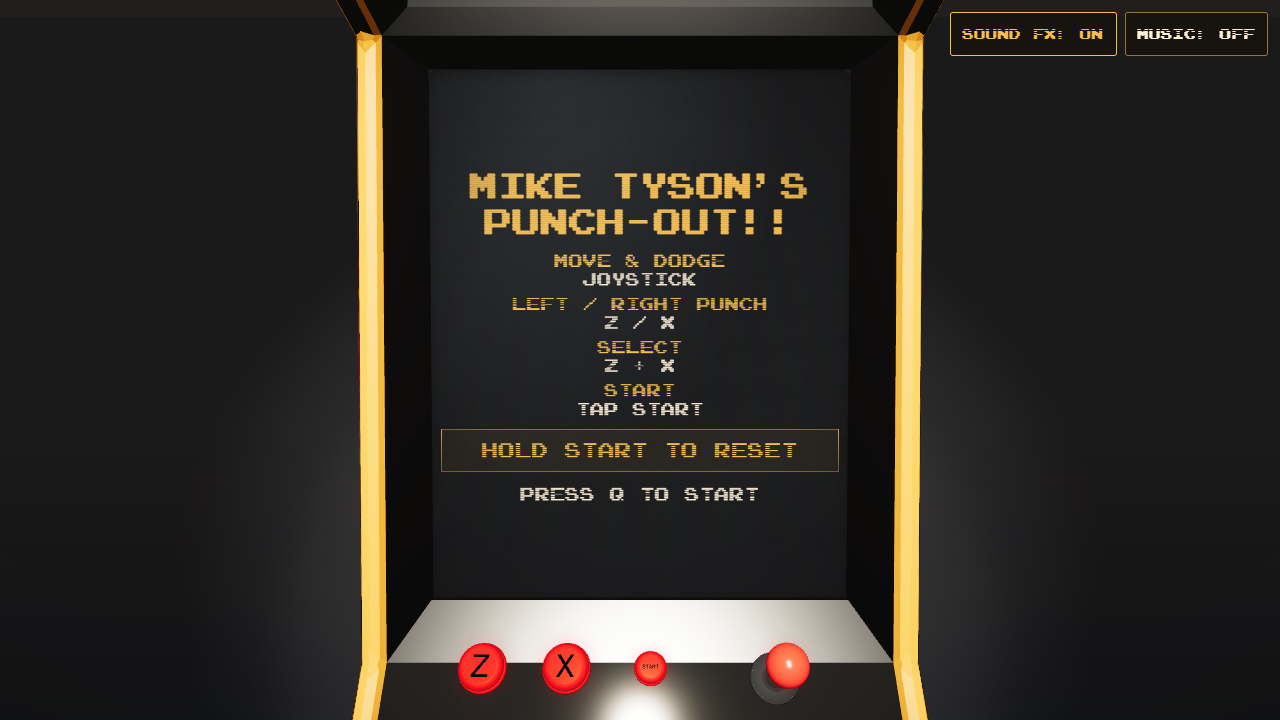
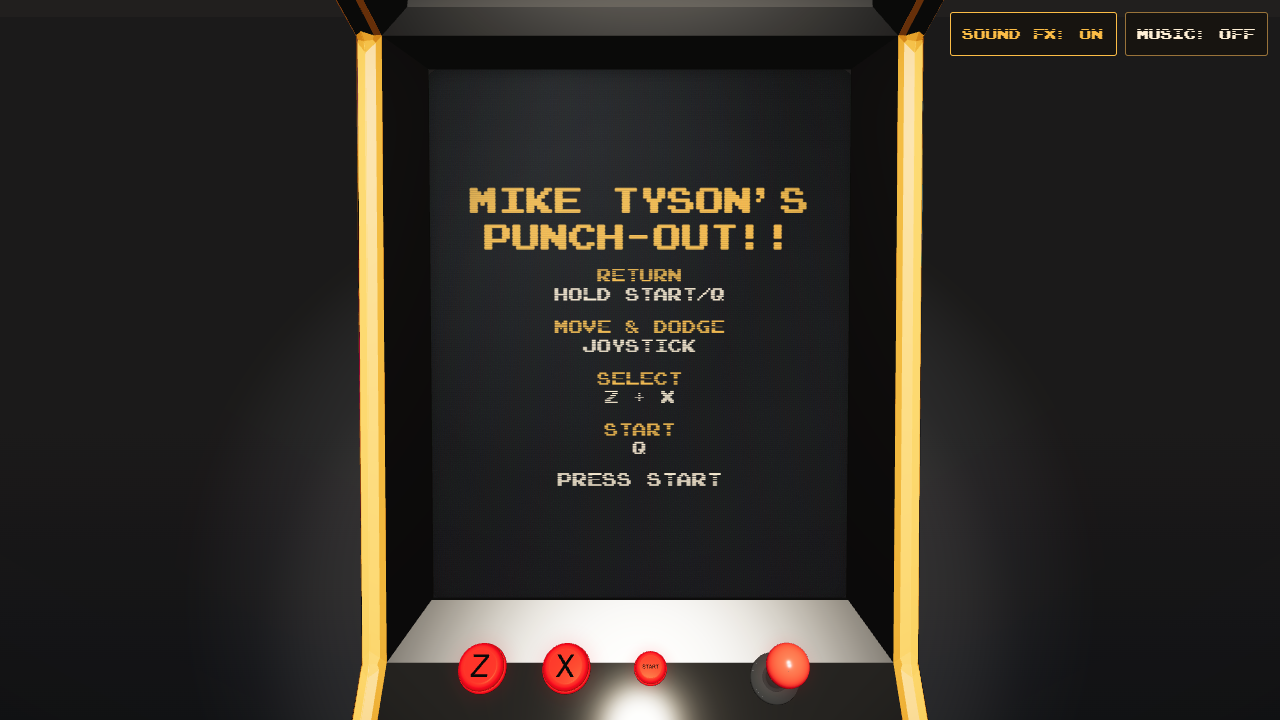
fix: stabilize checks and refine arcade instructions

Changed region(s): [[0.3438, 0.2444, 0.6562, 0.7028]]

diff --git a/tests/cabinet-controls.spec.js b/tests/cabinet-controls.spec.js
@@ -127,24 +127,38 @@ test('cabinet selects menu links, activates with Z, and exits from the blog and 
   await page.keyboard.press('Enter');
   await expect(frame.getByRole('heading', { name: 'Build. Build. Build.', exact: true })).toBeVisible();
   const scrollY = () => frame.locator('body').evaluate(() => window.scrollY);
-  const scroll = await grabJoystick(page, isMobile);
-  await scroll.move(0, 30);
-  // Focus can move between the reader and cabinet while the physical stick stays held.
-  await page.getByRole('button', { name: 'Cabinet: Z Read', exact: true }).focus();
-  await expect.poll(scrollY).toBeGreaterThan(100);
-  await scroll.release();
-  await frame.locator('body').evaluate(() => new Promise(resolve => requestAnimationFrame(() => requestAnimationFrame(resolve))));
-  const stopped = await scrollY();
-  await page.waitForTimeout(100);
-  expect(await scrollY()).toBe(stopped);
-  await page.keyboard.down('ArrowUp');
-  await expect.poll(scrollY).toBeLessThan(stopped - 30);
-  await page.keyboard.up('ArrowUp');
-  await frame.getByRole('heading', { name: 'Build. Build. Build.', exact: true }).focus();
-  const before = await scrollY();
-  await page.keyboard.down('s');
-  await expect.poll(scrollY).toBeGreaterThan(before + 30);
-  await page.keyboard.up('s');
+  for (const shortRange of [false, true]) {
+    // Also exercise the 95-pixel range seen in CI, without requiring impossible scroll distances.
+    const maxScroll = await frame.locator('main').evaluate(async (element, short) => {
+      await document.fonts.ready;
+      element.style.height = short ? `${innerHeight + 95}px` : '';
+      element.style.overflow = short ? 'hidden' : '';
+      window.scrollTo(0, 0);
+      return document.scrollingElement.scrollHeight - innerHeight;
+    }, shortRange);
+    testInfo.annotations.push({ type: 'article-scroll-range', description: `${shortRange ? 'short' : 'natural'}: ${maxScroll}` });
+    expect(maxScroll).toBeGreaterThan(0);
+    const scroll = await grabJoystick(page, isMobile);
+    await scroll.move(0, 30);
+    // Focus can move between the reader and cabinet while the physical stick stays held.
+    await page.getByRole('button', { name: 'Cabinet: Z Read', exact: true }).focus();
+    await expect.poll(scrollY).toBeGreaterThan(Math.min(100, maxScroll / 2));
+    await scroll.release();
+    await frame.locator('body').evaluate(() => new Promise(resolve => requestAnimationFrame(() => requestAnimationFrame(resolve))));
+    const stopped = await scrollY();
+    await page.waitForTimeout(100);
+    expect(await scrollY()).toBe(stopped);
+    await page.keyboard.down('ArrowUp');
+    await expect.poll(scrollY).toBeLessThan(stopped - Math.min(30, stopped / 2));
+    await page.keyboard.up('ArrowUp');
+    await frame.getByRole('heading', { name: 'Build. Build. Build.', exact: true }).focus();
+    const before = await scrollY();
+    const distance = Math.min(30, (maxScroll - before) / 2);
+    expect(distance).toBeGreaterThan(0);
+    await page.keyboard.down('s');
+    await expect.poll(scrollY).toBeGreaterThan(before + distance);
+    await page.keyboard.up('s');
+  }
   await page.getByRole('button', { name: 'Cabinet: X Open', exact: true }).click();
   await expect(article).toBeFocused();
   const parent = await grabJoystick(page, isMobile);

diff --git a/tests/punch-out.spec.js b/tests/punch-out.spec.js
@@ -17,10 +17,12 @@ test('keyboard directions, punches, Start/Select, visibility and cancellation us
   await mockEmulator(page);
   await page.goto(route);
   await expect(page.locator('body')).toHaveAttribute('data-state', 'ready');
-  await expect(page.locator('#instructions')).toContainText('Z + X');
-  await expect(page.locator('#instructions')).toContainText('Tap Start');
-  await expect(page.locator('#instructions')).toContainText('HOLD START TO RESET');
-  await expect(page.locator('#status')).toHaveText('Press Q to start');
+  await expect(page.locator('#instructions dl > div')).toHaveText(['ReturnHold Start/Q', 'Move & dodgeJoystick', 'Selectz + x', 'StartQ']);
+  await expect(page.locator('#status')).toHaveText('Press Start');
+  await expect(page.locator('#status')).toHaveCSS('animation-name', 'press-start-flash');
+  await page.emulateMedia({ reducedMotion: 'reduce' });
+  await expect(page.locator('#status')).toHaveCSS('animation-name', 'none');
+  await page.emulateMedia({ reducedMotion: 'no-preference' });
   await expect(page.locator('#instructions')).not.toContainText(/WASD|Z: B|X: A|Shift|0\.6 sec|Exit/);
   await page.keyboard.press('q');
   await expect.poll(() => events(page)).toContainEqual({ player: 0, button: 3, pressed: 1 });
@@ -97,7 +99,7 @@ test('entry stays in the cabinet, held inputs animate, Start returns to the exhi
   await expect(emulator.locator('.ejs_virtualGamepad_parent')).toBeHidden();
   await expect(emulator.locator('.ejs_menu_bar')).toBeHidden();
   expect(await frame.locator('#instructions').evaluate(element => element.scrollHeight <= element.clientHeight)).toBe(true);
-  await page.screenshot({ path: testInfo.outputPath('punch-out-instructions.png') });
+  await page.screenshot({ path: testInfo.outputPath('punch-out-instructions.png'), animations: 'disabled' });
   const read = page.locator('[data-action="read"]'), open = page.locator('[data-action="open"]'), reset = page.locator('[data-action="menu"]');
   await read.click();
   await expect(frame.locator('#instructions')).toBeHidden();

diff --git a/apps/portfolio/src/punch-out/punch-out.css b/apps/portfolio/src/punch-out/punch-out.css
@@ -22,15 +22,17 @@ body:focus { outline: none; }
   background: #0b0c0f;
 }
 h1 { font-size: clamp(28px, 7vw, 42px); line-height: 1.25; margin: 0; }
-dl { display: grid; gap: 8px; margin: 0; font-size: clamp(16px, 3.4vw, 22px); line-height: 1.3; }
+dl { display: grid; gap: 20px; margin: 0; font-size: clamp(16px, 3.4vw, 22px); line-height: 1.3; }
 dd { margin: 0; color: #fff0d6; }
-#reset-instruction { margin: 0; padding: 14px 10px; border: 1px solid currentColor; background: #fcbd4610; font-size: clamp(22px, 4vw, 28px); line-height: 1.35; }
 #status { margin: 0; font-size: clamp(17px, 3.6vw, 24px); line-height: 1.5; color: #fff0d6; }
+[data-state='ready'] #status { animation: press-start-flash 1.2s steps(1, end) infinite; }
+@keyframes press-start-flash { 50% { opacity: 0; } }
+@media (prefers-reduced-motion: reduce) { [data-state='ready'] #status { animation: none; } }
 [data-state='playing'] #instructions { display: none; }
 [data-state='error'] #viewport { visibility: hidden; }
 @media (max-height: 480px) {
   #instructions { padding: 16px; gap: 12px; }
-  dl { gap: 8px; font-size: clamp(13px, 3vw, 20px); }
+  dl { gap: 14px; font-size: clamp(13px, 3vw, 20px); }
   h1 { font-size: 26px; }
   #status { font-size: 18px; }
 }

diff --git a/apps/portfolio/src/punch-out/punch-out.html b/apps/portfolio/src/punch-out/punch-out.html
@@ -11,12 +11,11 @@
     <section id="instructions" aria-labelledby="game-title">
       <h1 id="game-title">Mike Tyson's<br>Punch-Out!!</h1>
       <dl>
+        <div><dt>Return</dt><dd>Hold Start/Q</dd></div>
         <div><dt>Move &amp; dodge</dt><dd>Joystick</dd></div>
-        <div><dt>Left / right punch</dt><dd>Z / X</dd></div>
-        <div><dt>Select</dt><dd>Z + X</dd></div>
-        <div><dt>Start</dt><dd>Tap Start</dd></div>
+        <div><dt>Select</dt><dd>z + x</dd></div>
+        <div><dt>Start</dt><dd>Q</dd></div>
       </dl>
-      <p id="reset-instruction">HOLD START TO RESET</p>
       <p id="status" role="status" aria-live="polite">Loading the ring...</p>
     </section>
     <script type="module" src="./punch-out.ts"></script>

diff --git a/apps/portfolio/src/punch-out/punch-out.ts b/apps/portfolio/src/punch-out/punch-out.ts
@@ -59,7 +59,7 @@ const start = () => {
     emulator.start(() => {
       if (attempt !== session) return
       clearTimeout(timeout)
-      setState('ready', 'Press Q to start')
+      setState('ready', 'Press Start')
       emulator.pause()
     }, fail)
   }

diff --git a/apps/portfolio/docs/testing.md b/apps/portfolio/docs/testing.md
@@ -50,7 +50,7 @@ The embedded portfolio regression checks the same behavior from inside the arcad
 VM tests do not replace browser rendering or real pointer and touch checks.
 Punch-Out CI substitutes only the official pinned loader with a deterministic emulator adapter; it does not fetch or store a ROM and does not claim live gameplay coverage.
 The fixture implements `gameManager.simulateInput` and polls simultaneous held buttons on running emulated frames, rather than treating canvas keyboard events as NES input.
-Instruction regressions check the simplified cabinet mappings, prominent HOLD START TO RESET reminder, and Press Q to start prompt.
+Instruction regressions check the four cabinet mappings and flashing Press Start prompt, including a steady prompt for reduced motion.
 Run `npm.cmd run test:browser -- tests/punch-out.spec.js --project=production-desktop --project=production-mobile --workers=1` after a root build for focused input checks.
 Separately verify the real external source in a browser: check the direct CORS response and NES header, title screen, starting a bout, movement, both punches, Start/Select, gesture audio, and exit back to the exhibit.
 Capture desktop and mobile instructions and live gameplay, checking the centered viewport, cabinet transitions, readable copy, and absence of emulator touch controls or toolbars.
@@ -72,6 +72,7 @@ Its mobile history regression dispatches persisted pagehide/pageshow events and 
 Its menu regression selects Start, Blog, and Resume with the joystick, opens the PDF in a new tab using Z, enters the game, and returns from both the game and blog with Start.
 It also enters `/tech`, verifies that its first article has focus, and opens it with Enter.
 Article regressions cover continuous physical joystick scrolling, keyboard scrolling from the cabinet and iframe, release behavior, and removal of the underline when the article is no longer selected.
+They cover the natural article height and a constrained 95-pixel scroll range, measuring available distance after fonts are ready instead of requiring a fixed scroll beyond the document boundary.
 They move focus from the embedded reader to a cabinet button while the joystick is held, verifying that internal focus changes do not interrupt scrolling.
 Development fixtures verify all WASD and arrow directions, horizontal code overflow, and stopping on disconnect.
 The cabinet regression checks physical X navigation from a folder and the blog index; development article fixtures check keyboard X through all three levels.

diff --git a/docs/development.md b/docs/development.md
@@ -67,9 +67,10 @@ They run on separate runners in the official `mcr.microsoft.com/playwright:v1.64
 The container uses `--init --ipc=host` for process cleanup and Chromium shared memory.
 Keep the image version aligned with the locked `@playwright/test` version when updating Playwright; a browser configuration guard verifies the match.
 Tests tagged `@webgl` run with one worker per runner so software-rendered scenes do not compete; the remaining portfolio checks retain two workers per runner.
-Both browser groups use Playwright's three-way sharding, with `--fully-parallel` on WebGL to distribute individual cases rather than whole files while `--workers=1` keeps execution serial within each runner.
+Both browser groups use Playwright's six-way sharding, with `--fully-parallel` on WebGL to distribute individual cases rather than whole files while `--workers=1` keeps execution serial within each runner.
+The smaller shards reduce the heavy desktop scene workload assigned to the first runner without adding competing WebGL workers.
 Each shard runs the HMR dependency before its selected browser tests, retaining the stylesheet mutation and restoration ordering.
-The required `Tests` job aggregates `Quality` and all three browser shards and fails if any dependency fails, is cancelled, or is skipped.
+The required `Tests` job aggregates `Quality` and all six browser shards and fails if any dependency fails, is cancelled, or is skipped.
 Matrix failures do not cancel the remaining shards, preserving their results and artifacts.
 The two browser groups save artifacts under `test-results/portfolio/` and `test-results/webgl/` so the second run cannot erase the first run's results.
 Quality and browser jobs use Ubuntu and Node.js 24 and install the locked npm dependencies.

diff --git a/docs/scene.md b/docs/scene.md
@@ -73,7 +73,8 @@ On the menu, each joystick tilt advances or reverses the selected link, wraps at
 Centering or releasing the stick rearms the next step; holding it does not skip multiple entries.
 Z activates the selected native link synchronously, opening Resume in a new tab on desktop or the current top-level browser on touch devices, while Start returns to the main portfolio menu from the menu, blog, or game.
 The showcase's Punch-Out exhibit opens a same-origin game page in the existing iframe while the cabinet, camera, and CRT stay mounted.
-Its amber instruction card lists joystick movement, Z/X punches, Z+X Select, and Tap Start, with a bordered HOLD START TO RESET reminder and Press Q to start prompt.
+Its instruction card pairs Return with Hold Start/Q, Move & dodge with Joystick, Select with z + x, and Start with Q on separate amber and cream lines, with space between pairs.
+Press Start flashes when ready, remaining steady when reduced motion is preferred.
 Tap Start or Q for Start; hold either for 600 ms to return to the exhibit without sending Start.
 Enter and Shift also send Start and Select.
 Z or X dismisses the instructions after loading, and gameplay displays only a centered 4:3 viewport without emulator controls.

diff --git a/apps/portfolio/docs/arcade.md b/apps/portfolio/docs/arcade.md
@@ -45,7 +45,9 @@ The runtime also waits for actual emulated frames before releasing or repeating 
 Tap Start or Q to send Start on release, or hold for 600 ms to exit without Start.
 Enter and Shift provide direct Start and Select.
 Instructions precede the viewport; Z/X begins play, and tapping Start/Q or pressing Enter begins play with Start.
-The instruction card lists joystick movement, Z/X punches, Z+X Select, and Tap Start, with a bordered HOLD START TO RESET reminder and Press Q to start prompt.
+The instruction card lists Return with Hold Start/Q, Move & dodge with Joystick, Select with z + x, and Start with Q.
+Actions and controls occupy separate lines in amber and cream, with extra spacing between pairs.
+Press Start flashes once the emulator is ready, and remains steady when reduced motion is preferred.
 Alternate keyboard mappings remain available without appearing on the card.
 Held inputs and timers clear on blur, cancellation, hiding, navigation, and disconnect; hidden games pause and resume without replaying input.
 Exit restores the saved exhibit position, and Q/menu works normally after release.
